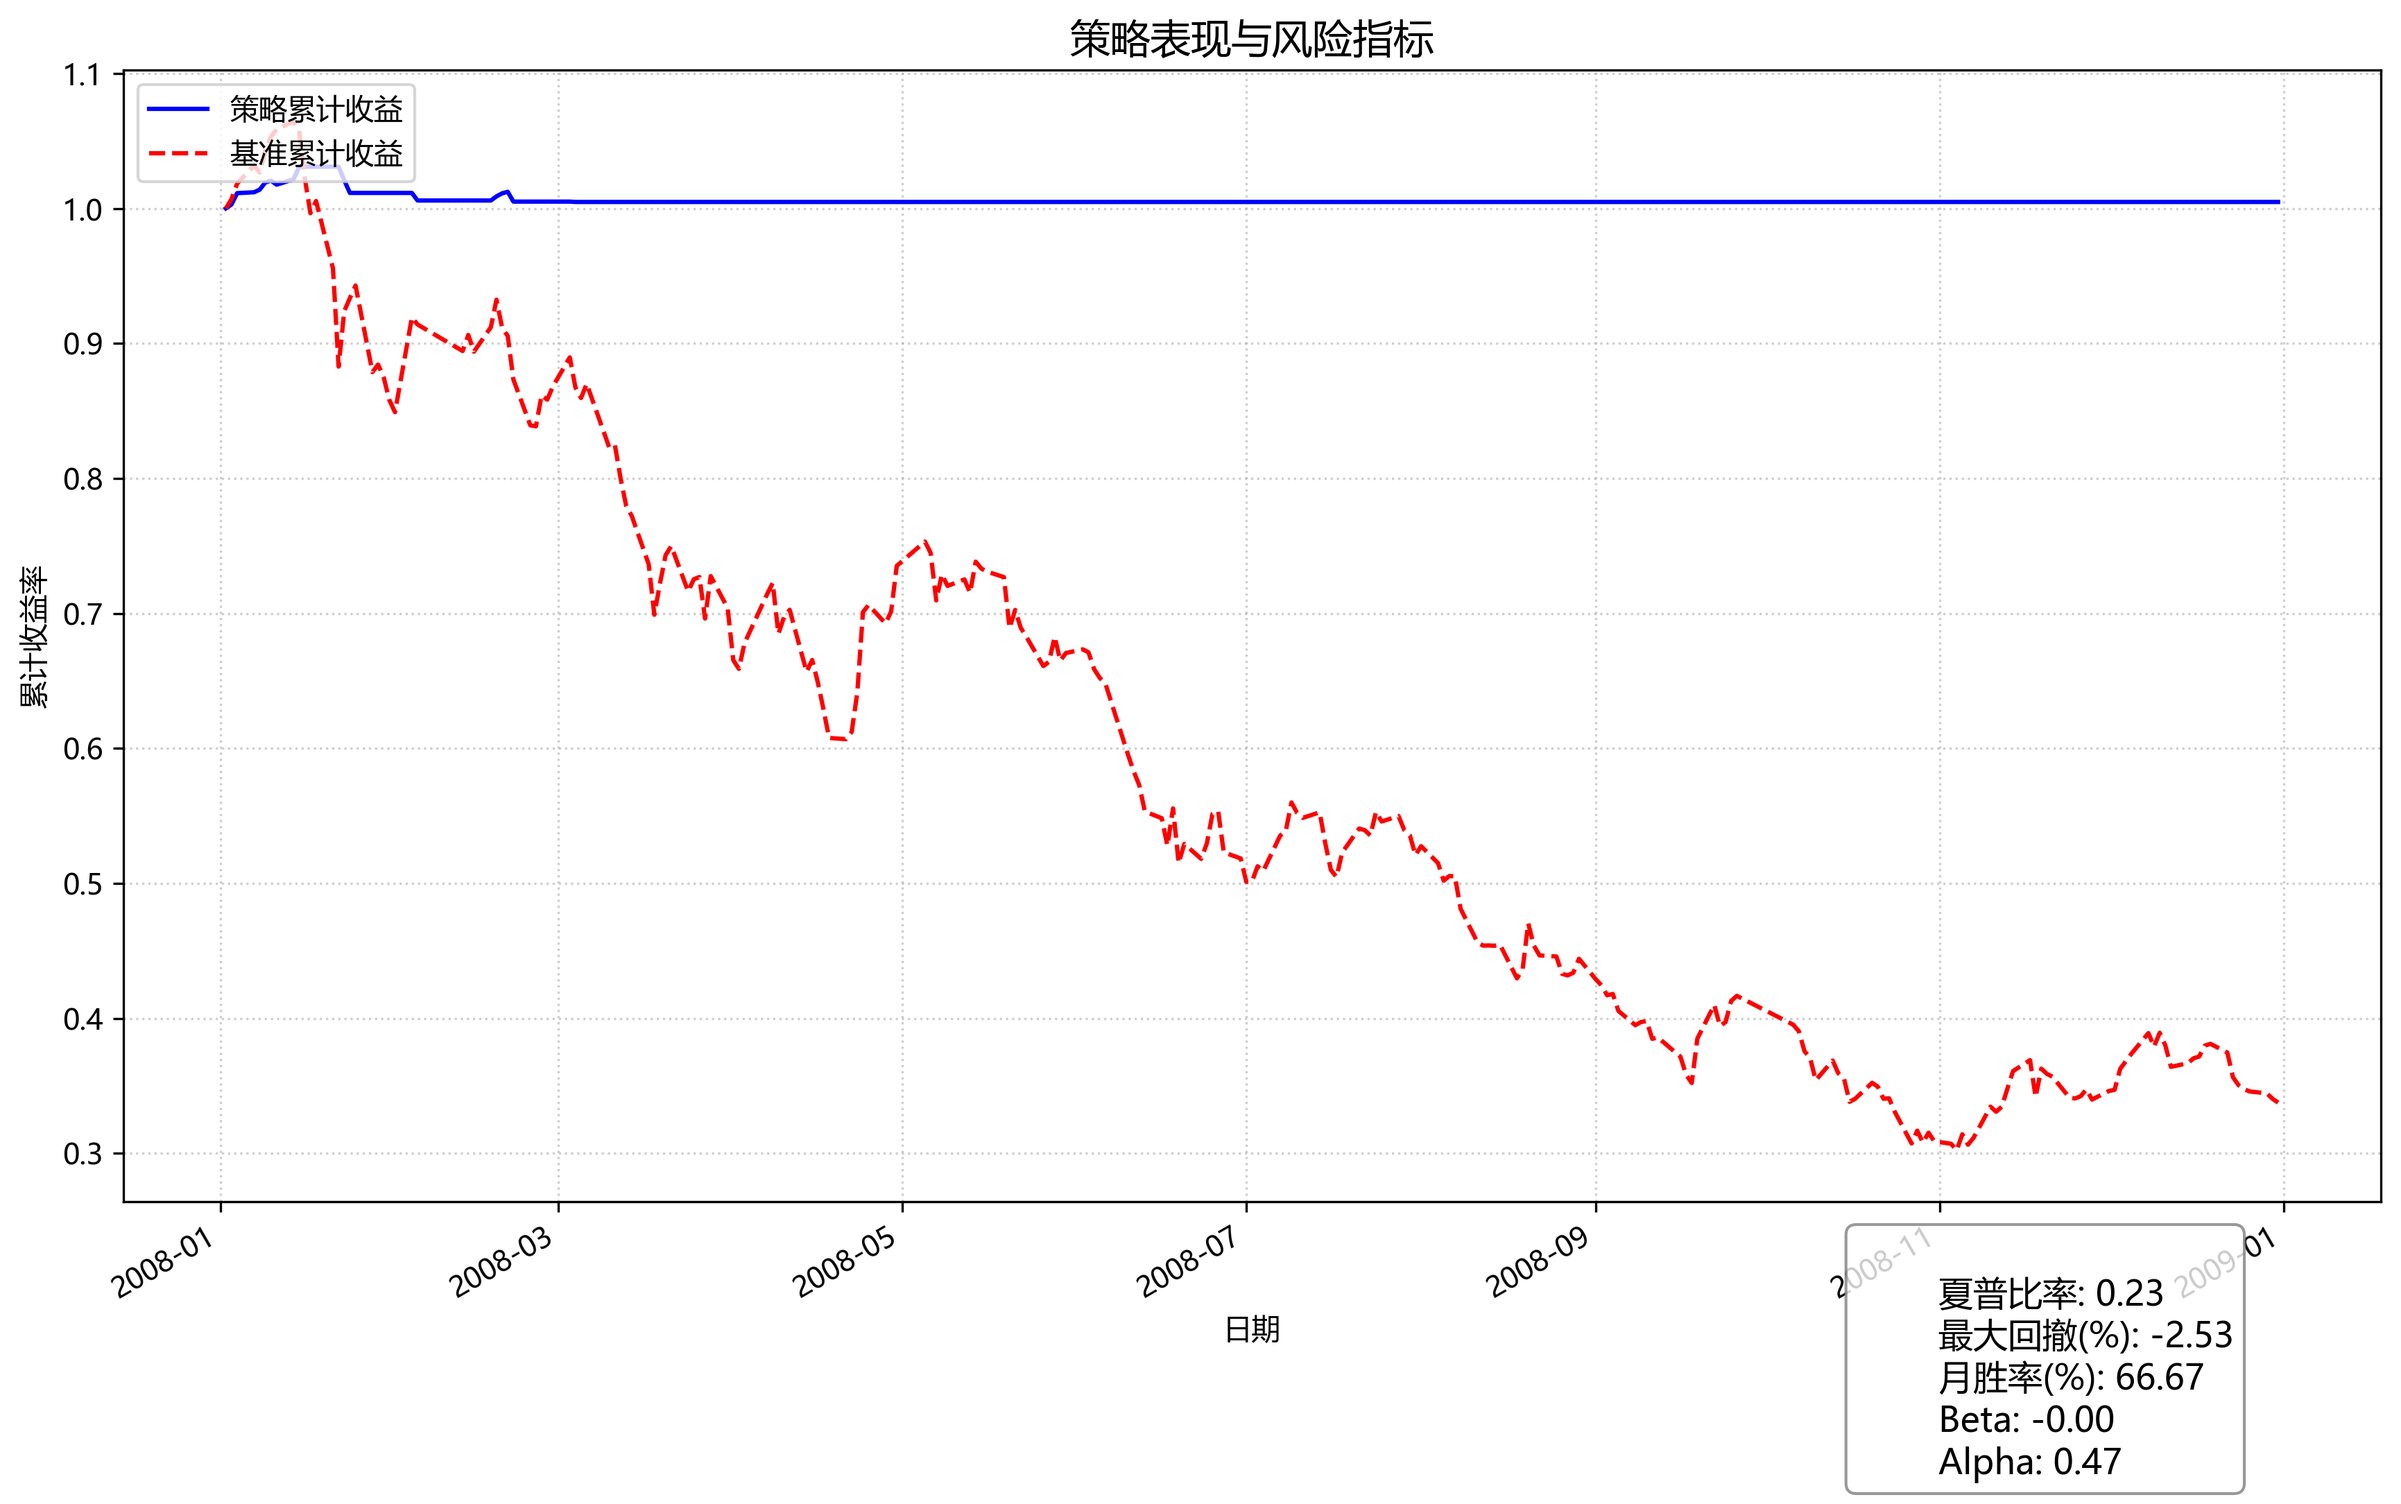
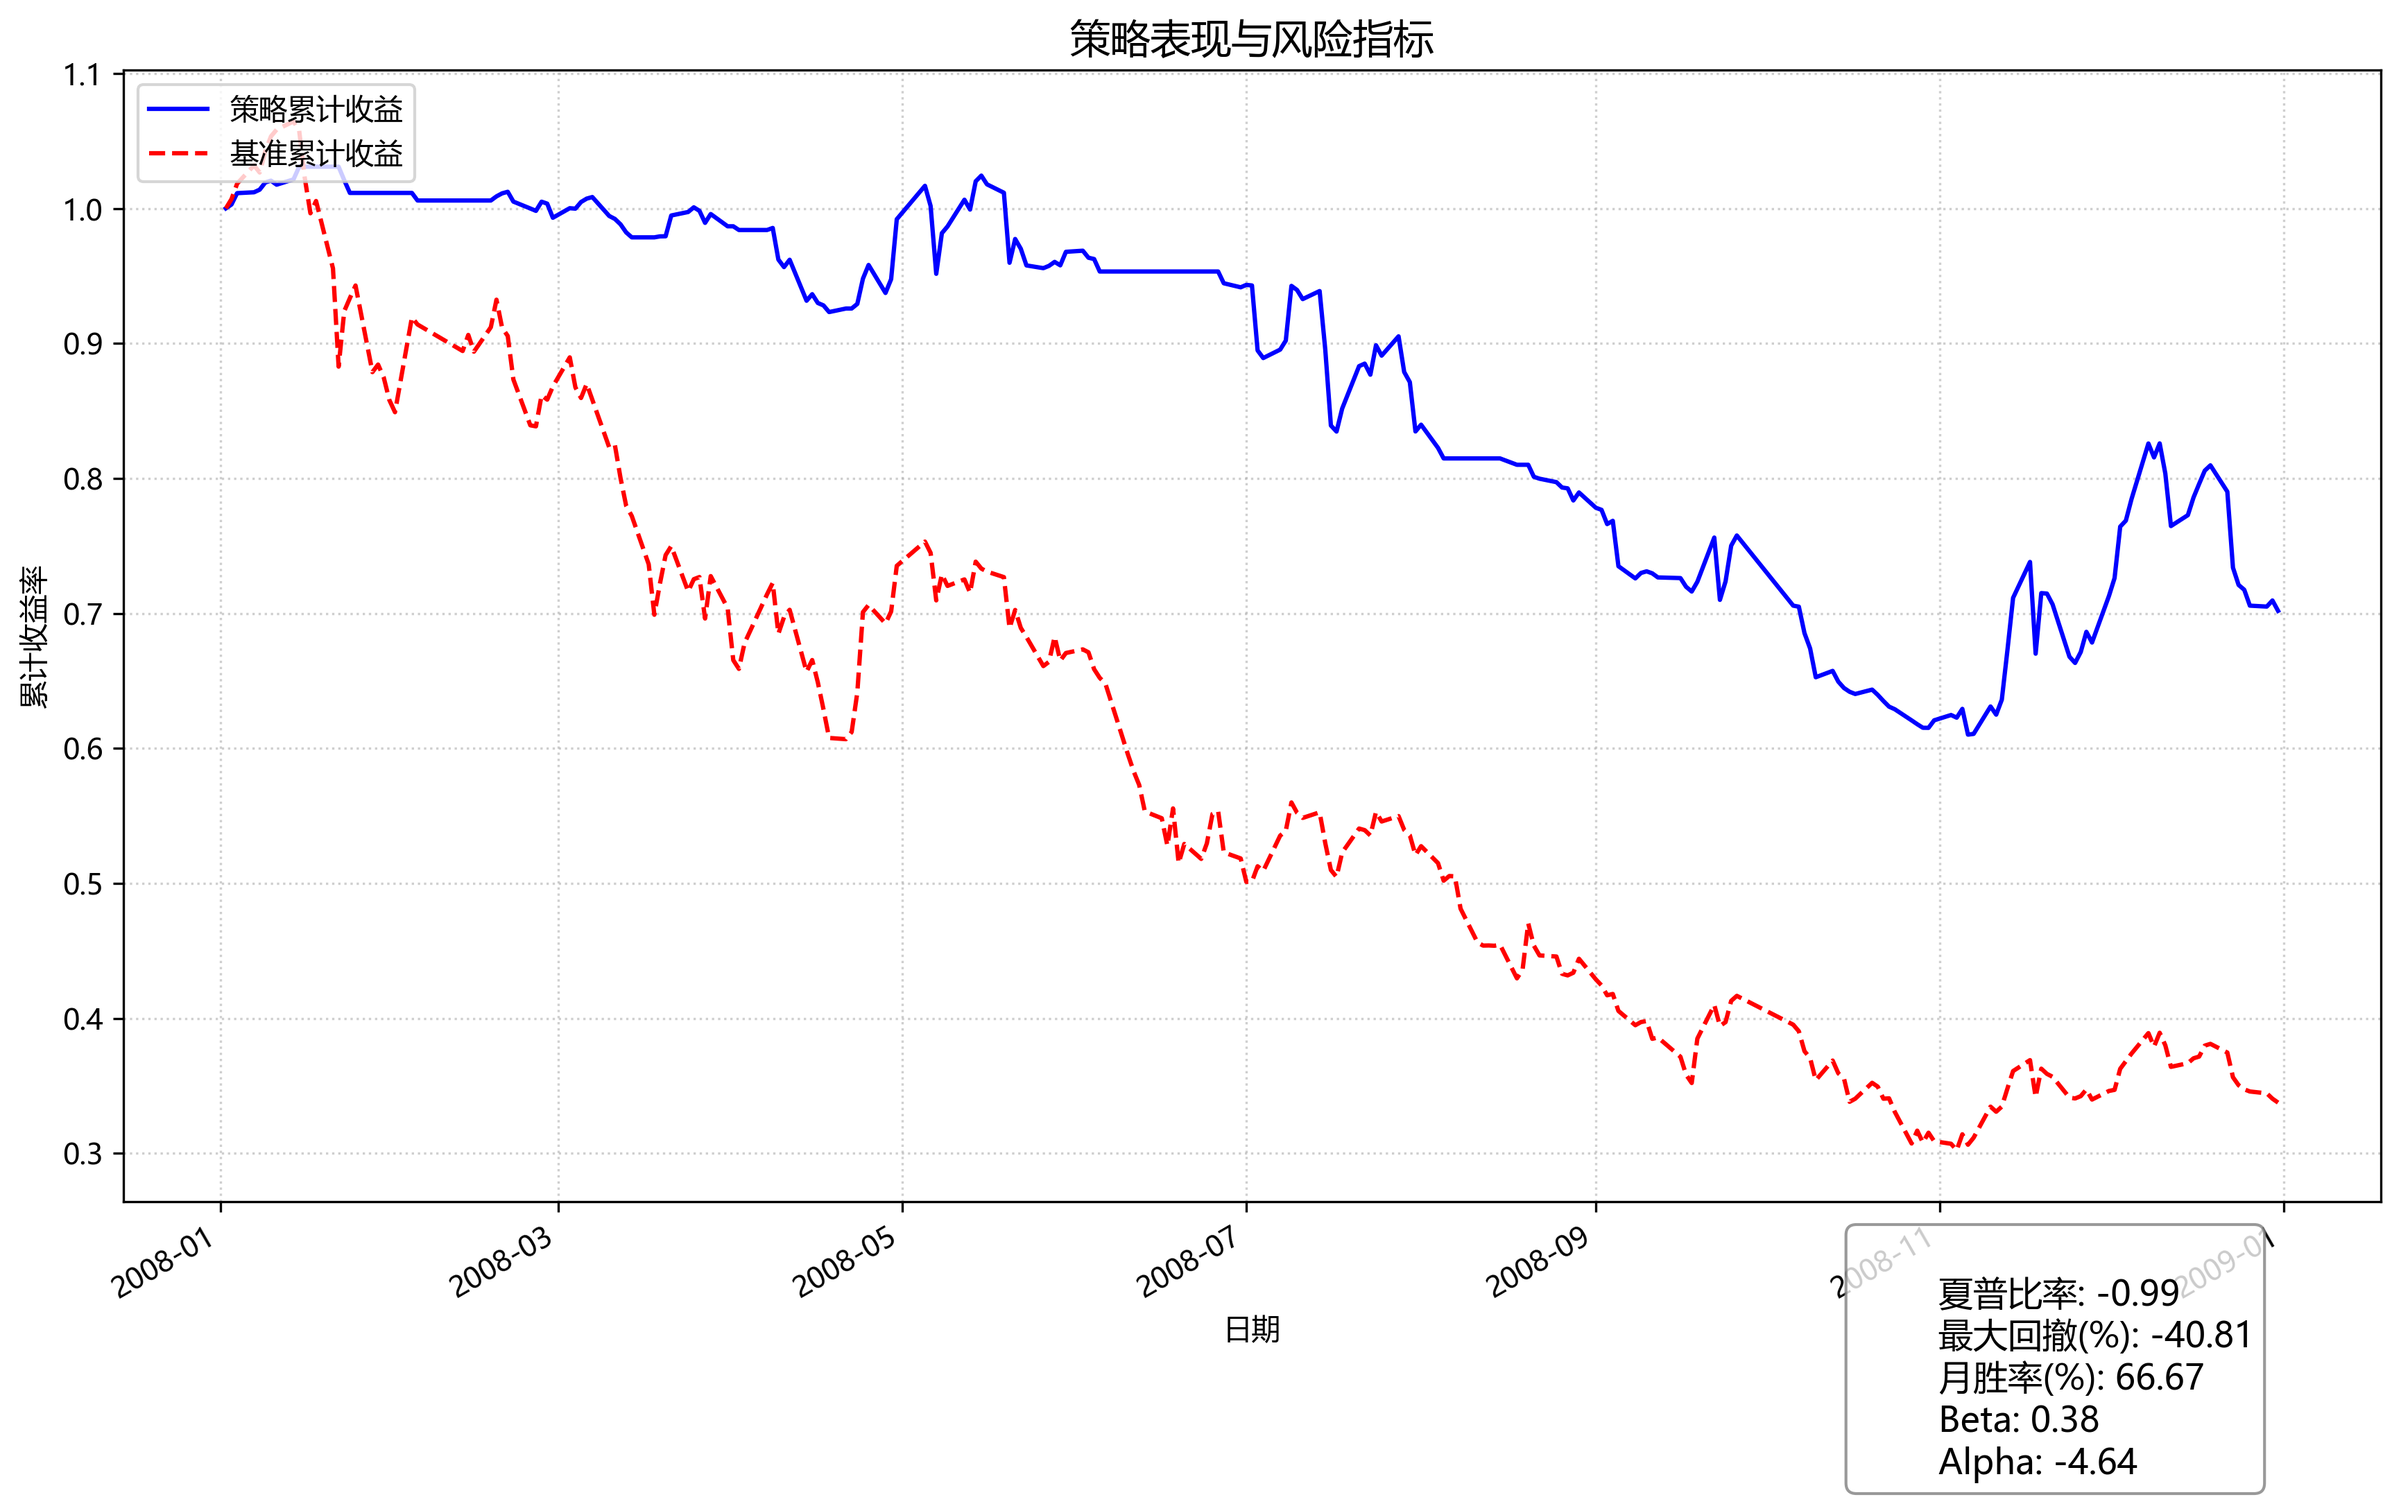
remove mean 200

diff --git a/simple_backtrade/strategy/kaimin.py b/simple_backtrade/strategy/kaimin.py
@@ -130,7 +130,7 @@ class BaseStrategy:
         predict_pe=pe/(1.0+self.stock_factors.history_score/100)
         #predict_pe=pe
 
-        if baseline_negative:
+        # if baseline_negative:
             # low_estimat_pe=predict_pe[predict_pe<25]
             # recovering_pe=predict_pe[(predict_pe<25)&(share_price>=mean20)].sort_values()
             # strategy_positive=(len(predict_pe[(predict_pe<25)&(share_price>=mean10)])/len(low_estimat_pe)>0.7)
@@ -138,12 +138,12 @@ class BaseStrategy:
             #     print("{}: baseline negative strategy positive".format(date))
             # else:
             #     print("{}: baseline negative".format(date))
-                return pandas.DataFrame()
+            #    return pandas.DataFrame()
 
-        else:
-            low_estimat_pe=predict_pe[predict_pe<25]
-            recovering_pe=predict_pe[(predict_pe<25)&(share_price>=mean20)].sort_values()
-            strategy_negative=(len(recovering_pe)/len(low_estimat_pe)<0.3)
+        # else:
+        low_estimat_pe=predict_pe[predict_pe<25]
+        recovering_pe=predict_pe[(predict_pe<25)&(share_price>=mean20)].sort_values()
+        strategy_negative=(len(recovering_pe)/len(low_estimat_pe)<0.3)
 
         return recovering_pe.head(keeps_num)
     
